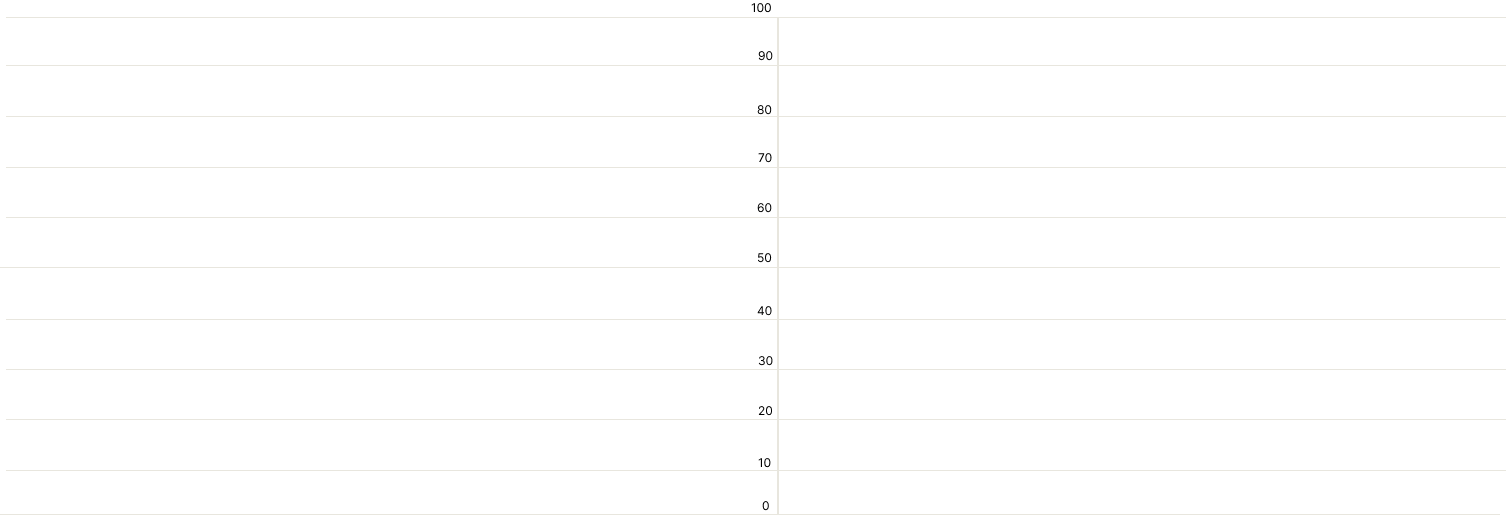
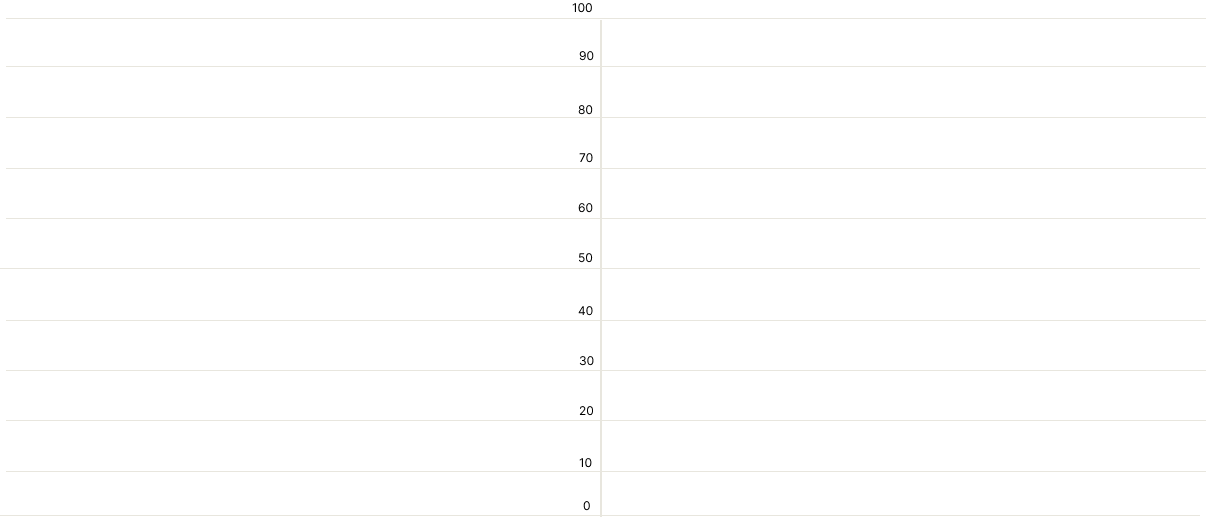
cambios x3

Changed region(s): [[0.0, 0.8388, 1.0, 1.0], [0.0, 0.0, 1.0, 0.7146], [0.4602, 0.7456, 0.5216, 0.8078]]

diff --git a/src/App.svelte b/src/App.svelte
@@ -83,40 +83,43 @@
     <h3 class="subtitulo">Encuestas a empleados de una empresa en Hong Kong revelan el impacto de la nueva política<br> fiscal sobre el segundo hijo, provocando la reducción del tamaño en las familias.</h3>
   </div>
   
-  <div class="años" style="height: 80px; display: flex; justify-content: center; align-items: center; position: relative; margin-bottom: 30px; font-family:'Hiromisake'">
+  <div class="años" style="height: 80px; display: flex; justify-content: center; align-items: center; position: relative; margin-bottom: 15px; font-family:'Hiromisake'">
     <p style={textStyle}>{currentText}</p> <!-- Muestra el año con el estilo condicional -->
   </div>
 
   <div class="anotacion">
     {#if showAnnotation}
-      <div style="position:absolute; margin-left: auto; text-align:justify; color: #9A0000;">
+      <div style="position:absolute; margin-left: auto; text-align:justify; color: #9A0000; transform: translateY(-50px)">
         <p>[2017: introducción de la política de <br> impuestos sobre el segundo hijo]</p>
       </div>
     {/if}
   </div>
   
-  <div class="originalgraph" style="height: 500px">
-    <div style="width: 500px; height:500px; justify-content:center; display:flex; align-items:flex-end">
+  <div class="originalgraph" style=" position: relative; overflow: hidden;">
+    <!-- Imagen de la regla como fondo -->
+    <div style="position: absolute; top: 0px; left: 145px; width: auto; height: auto; z-index: 1;">
+      <img src={image3} alt="Regla" style="width: 100%; height: 530px; opacity: 0.7;">
+    </div>
+  
+    <!-- Contenedor de la primera imagen -->
+    <div style="width: 500px; height: 500px; justify-content: center; display: flex; align-items: flex-end; position: relative; z-index: 2; left:-40px; top: 10px">
       <img 
         src={currentImage.src} 
         alt={currentImage.alt} 
-        style={`overflow:hidden; width: ${currentImage.width}px; height: ${currentImage.height}px;`}
+        style={`overflow: hidden; width: ${currentImage.width}px; height: ${currentImage.height}px;`}
       />
     </div>
-
-    <div style="margin-left: 20px; margin-right: 20px">
-      <img src={image3} 
-      alt='' />
-    </div>
-
-    <div style="width: 500px; height:500px; justify-content:center; display:flex; align-items:flex-end">
+  
+    <!-- Contenedor de la segunda imagen -->
+    <div style="width: 500px; height: 500px; justify-content: center; display: flex; align-items: flex-end; position: relative; z-index: 2; left: 40px; top:10px">
       <img 
         src={currentImage2.src} 
         alt={currentImage2.alt} 
-        style={`overflow:hidden; width: ${currentImage2.width}px; height: ${currentImage2.height}px;`}
+        style={`overflow: hidden; width: ${currentImage2.width}px; height: ${currentImage2.height}px;`}
       />
     </div>
   </div>
+  
 
   <div class="flourishgraphs" style="height: 750px">
     <div class="flourish-embed flourish-chart" data-src="visualisation/20145026" style="width:48%; margin-right:auto">
